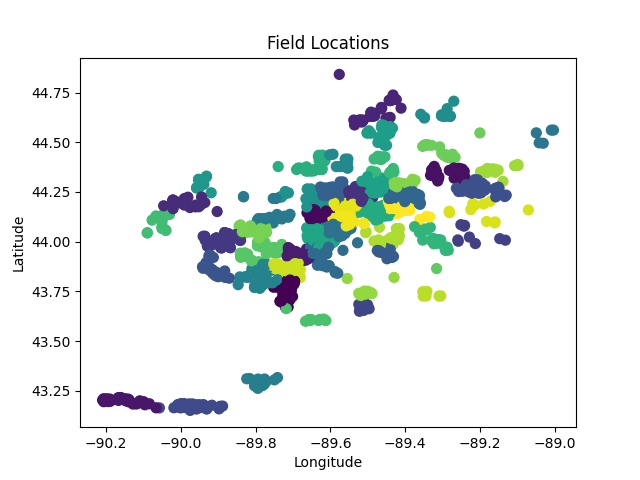
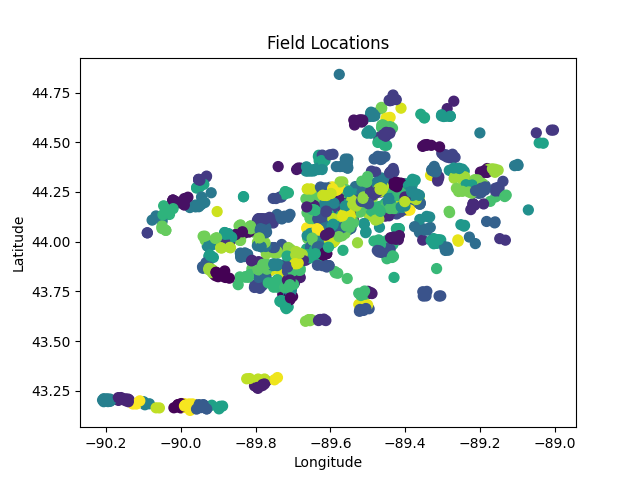
Rewrote CollectData to use the new Field class form DataWrapper.py
This will make working with the data a lot easier especially because the data is over a large period of time.

diff --git a/CollectData.py b/CollectData.py
@@ -1,37 +1,40 @@
 import csv
-from collections import defaultdict
 import numpy as np
 from math import cos, asin, sqrt, pi
 import pandas as pd
 import matplotlib.pyplot as plt
 from sklearn.cluster import KMeans
+import random
 
+import DataWrappers
 
 # Read the CSV file and extract important information into a dictionary
 def read_csv(csv_file_path='./data/final_data_for_modeling.csv'):
-    # Dictionary to store coordinates for each unique field_fvid (lat, lng, count)
-    field_data = defaultdict(list)
+    # Dictionary to store field objects for each unique field_fvid
+    field_data = dict()
 
     # Read the CSV file and extract important information into field_data
     try:
         with open(csv_file_path, mode='r', newline='', encoding='utf-8') as csvfile:
             reader = csv.DictReader(csvfile)
-            count = 0
             for row in reader:
-                #if count > 200:
-                #    break
-                count += 1
                 field_fvid = row['field_fvid']
                 lat = float(row['lat'])
                 lng = float(row['lng'])
+                year = int(row['year'])
+                gdd = float(row['gdd'])
                 
                 # Calculate averages for cpba_count and cpbl_count
                 cpba_count = float(row['cpba_count'])
                 cpbl_count = float(row['cpbl_count'])
                 avg_count = (cpba_count + cpbl_count) / 2
                 
-                # Add to field_coordinates
-                field_data[field_fvid] = (lat, lng, avg_count)
+                # Add to field_data
+                if (field_fvid not in field_data):
+                    field_data[field_fvid] = DataWrappers.Field(field_fvid, lat, lng)
+                    field_data[field_fvid].add_data_point(year, avg_count, gdd) 
+                else:
+                    field_data[field_fvid].add_data_point(year, avg_count, gdd)  
                 
     except FileNotFoundError:
         print(f"Error: File not found at {csv_file_path}")
@@ -45,32 +48,32 @@ def read_csv(csv_file_path='./data/final_data_for_modeling.csv'):
 
 
 
-# Calculate distances between field coordinates and save to a distance matrix
+# Calculate distances between each field coordinate and save to a distance matrix
 def create_distance_matrix(field_data, cutoff=10000):
-    # Calculate distances between field coordinates and save to a distance matrix
-
     # Function to calculate distance between two coordinates in km using Haversine formula
     def distance(lat1, lon1, lat2, lon2):
         r = 6371 # km
         p = pi / 180
 
         a = 0.5 - cos((lat2-lat1)*p)/2 + cos(lat1*p) * cos(lat2*p) * (1-cos((lon2-lon1)*p))/2
-        return 2 * r * asin(sqrt(a))
+        return int(2 * r * asin(sqrt(a)) * 1000)  # Convert km to meters for more precision
 
+    # Create a distance matrix with field_fvids as both row and column headers
     grid = np.eye(len(field_data)+1, dtype=int)
     fvids = list(field_data.keys())
     for i in range(len(field_data)):
-        grid[i+1][0] = fvids[i]
+        grid[i+1][0] = fvids[i] 
         grid[0][i+1] = fvids[i]
 
-    for i in range(len(field_data)):
-        for j in range(i, len(field_data)):
-            lat1 = field_data[fvids[i]][0]
-            lon1 = field_data[fvids[i]][1]
-            lat2 = field_data[fvids[j]][0]
-            lon2 = field_data[fvids[j]][1]
+    # Calculate distances and fill the distance matrix storing data only if dist is <= cutoff
+    for i in range(len(fvids)):
+        for j in range(i, len(fvids)):
+            lat1 = field_data[fvids[i]].latitude
+            lon1 = field_data[fvids[i]].longitude
+            lat2 = field_data[fvids[j]].latitude
+            lon2 = field_data[fvids[j]].longitude
         
-            dist = int(1000* distance(lat1, lon1, lat2, lon2)) # Convert km to meters for more precision
+            dist = distance(lat1, lon1, lat2, lon2) # Convert km to meters for more precision
             if (dist <= cutoff): # Only store distances less than or equal to cutoff
                 grid[i+1][j+1] = dist
 
@@ -82,11 +85,11 @@ def create_distance_matrix(field_data, cutoff=10000):
 def plot_coordinates(field_data, output_path='./out/field_locations.png'):
     # Prepare data for plotting
     plot_data = {'Latitude': [], 'Longitude': [], 'Cluster': []}
-    for _, (lat, lng, _, *rest) in field_data.items():
-        plot_data['Latitude'].append(lat)
-        plot_data['Longitude'].append(lng)
+    for field in field_data.values():
+        plot_data['Latitude'].append(field.latitude)
+        plot_data['Longitude'].append(field.longitude)
         # Use the fourth field (cluster) if it exists, otherwise default to None
-        plot_data['Cluster'].append(rest[0] if len(rest) > 0 else None)
+        plot_data['Cluster'].append(field.cluster if field.cluster != -1 else None)
 
     # Convert to a format suitable for plotting
     df = pd.DataFrame(plot_data)
@@ -106,13 +109,11 @@ def plot_coordinates(field_data, output_path='./out/field_locations.png'):
     plt.savefig(output_path, format='png')
     plt.close()
     
-#Add a feature to this method that gives the points on the plot color based on the fourth field of the field data generated by the KMeans algorithm. If the fourth field is not there, leave the color as default.    
-
     
-    
-def cluster_coordinates(field_data, n_clusters=5, iters=2000, random_state=42):
+# Cluster the coordinates using KMeans and add cluster labels to the field data    
+def cluster_coordinates(field_data, n_clusters=5, iters=2000, random_state=random.randint(0, 1000)):
     # Prepare data for clustering
-    coordinates = np.array([[lat, lng] for lat, lng, _ in field_data.values()])
+    coordinates = np.array([[field.latitude, field.longitude] for field in field_data.values()])
     
     # Perform KMeans clustering
     kmeans = KMeans(n_clusters=n_clusters, max_iter=iters, random_state=random_state)
@@ -120,11 +121,31 @@ def cluster_coordinates(field_data, n_clusters=5, iters=2000, random_state=42):
     
     # Add cluster labels to the field data
     for i, fvid in enumerate(field_data.keys()):
-        field_data[fvid] = (*field_data[fvid], kmeans.labels_[i])
+        field_data[fvid].set_cluster(kmeans.labels_[i])
     
     return field_data
     
 
+# This function is used to take field data that has been run through cluster_coordinates and create a new list
+# that contains averaged data for each cluster such as location and count
+def create_cluster_data(field_data, num_clusters):
+    # Start by creating a list of lists of lists which sorts each node into its respective cluster. 
+    # Each cluster has a list of latitudes, longitudes, average counts, and field_fvids which will be operated on to create generalized cluster data
+    cluster_data_inter = []
+    for fvid in field_data.keys():
+        lat, lng, avg_count, cluster = field_data[fvid]
+        if cluster_data_inter[cluster] is None:
+            cluster_data_inter[cluster] = [[lat],[lng],[avg_count], [fvid]]
+        else:
+            cluster_data_inter[cluster][0].append(lat)
+            cluster_data_inter[cluster][1].append(lng)
+            cluster_data_inter[cluster][2].append(avg_count)
+            cluster_data_inter[cluster][3].append(fvid)
+            
+    #TODO: finish this method
+    
+    
+    return
 
 
 
@@ -132,13 +153,14 @@ def cluster_coordinates(field_data, n_clusters=5, iters=2000, random_state=42):
 create_distance_matrix_in = input("Calculate the distance matrix? (y/n): ").strip().lower() == 'y'
 plot_coordinates_in = input("Plot the coordinates? (y/n): ").strip().lower() == 'y'
 clustered_in = False
+num_clusters = 0
 if (plot_coordinates_in):
     clustered_in = input("Cluster the coordinates before plotting? (y/n): ").strip().lower() == 'y'
+    num_clusters = int(input("Enter the number of clusters (default 50): ").strip() or 50)
 
 CUTOFF = 10000  # Cutoff distance in meters for the distance matrix
 plot_coordinates_path_unclustered = './out/field_locations.png'
 plot_coordinates_path_clustered = './out/field_locations_clustered.png'
-CLUSTERS = 50   # Number of clusters for KMeans
 
 
 # Read the CSV file and extract important information into field_data
@@ -152,14 +174,10 @@ if (create_distance_matrix_in):
 
 if (plot_coordinates_in):
     if clustered_in:
-        cluster_coordinates(field_data, n_clusters=50)
+        cluster_coordinates(field_data, n_clusters=num_clusters, iters=2000, random_state=random.randint(0, 1000))
         print("Coordinates clustered successfully.")
         plot_coordinates(field_data, output_path=plot_coordinates_path_clustered)
         print(f"Plot saved to '{plot_coordinates_path_clustered}'.")
     else:
         plot_coordinates(field_data, output_path=plot_coordinates_path_unclustered)
         print(f"Plot saved to '{plot_coordinates_path_unclustered}'.")
-
-
-
-#print("Field data:", field_data)

diff --git a/DataWrappers.py b/DataWrappers.py
@@ -1,0 +1,38 @@
+class Field:
+    # Creates a field with unique field_id, latitude, longitude, and an empty data list
+    # initializes cluster_num to -1 by default 
+    def __init__(self, field_id, latitude, longitude, cluster=-1):
+        self.field_id = field_id
+        self.latitude = latitude
+        self.longitude = longitude
+        self.data = []  # List of tuples: (year, count, gdd)
+        self.cluster = cluster
+
+    # Adds a data point for a specific year to the field's data list 
+    def add_data_point(self, year, count, gdd):
+        self.data.append((year, count, gdd))
+        
+    # Sets the cluster number for the field
+    def set_cluster(self, cluster):
+        self.cluster = cluster
+
+    def __repr__(self):
+        return (f"Field(field_id={self.field_id}, latitude={self.latitude}, "
+                f"longitude={self.longitude}, data={self.data})")
+        
+        
+class Cluster:
+    # Creates a cluster with a unique cluster_id and an empty list of fields
+    def __init__(self, cluster_id, latitude=None, longitude=None):
+        self.cluster_id = cluster_id
+        self.latitude = latitude
+        self.longitude = longitude
+        self.fields = []  # List of Field objects in this cluster
+        self.data = []    # List of tuples: (year, count, gdd) aggregated or for the cluster
+
+    # Adds a field to the cluster
+    def add_field(self, field):
+        self.fields.append(field)
+
+    def __repr__(self):
+        return f"Cluster(cluster_id={self.cluster_id}, fields={self.fields})"
